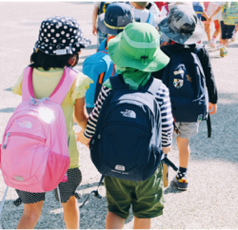
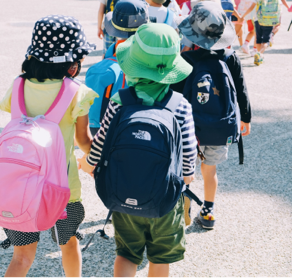
fixed some overflow issues

diff --git a/css/styles.css b/css/styles.css
@@ -676,6 +676,7 @@ footer {
 figure img,
 .med-card img,
 .big-card img {
+  min-height: 425px;
   object-fit: cover;
   width: 100%;
 }
@@ -904,6 +905,11 @@ figcaption {
   min-width: 300px;
 }
 
+.map{
+  min-height: 400px;
+  object-fit: cover;
+}
+
 /* EXHIBITIONS , SPECIAL EVENTS */
 
 .index-of-exhibits {
@@ -953,6 +959,7 @@ figcaption {
   padding-top: 20px;
   gap: 40px;
   font-family: var(--font-header);
+  overflow: hidden;
 }
 
 .checkout-title {

diff --git a/html/visit.html b/html/visit.html
@@ -146,7 +146,7 @@
           <div class="med-yellow small-card">
             <h2 class="same-as-h3" id="contact-us-anchor">Find Us</h2>
             <img
-              class="bit"
+              class="bit map"
               src="/images/visit-images/map-big.png"
               alt="A map of the area immediately surrounding the community science museum"
             />
